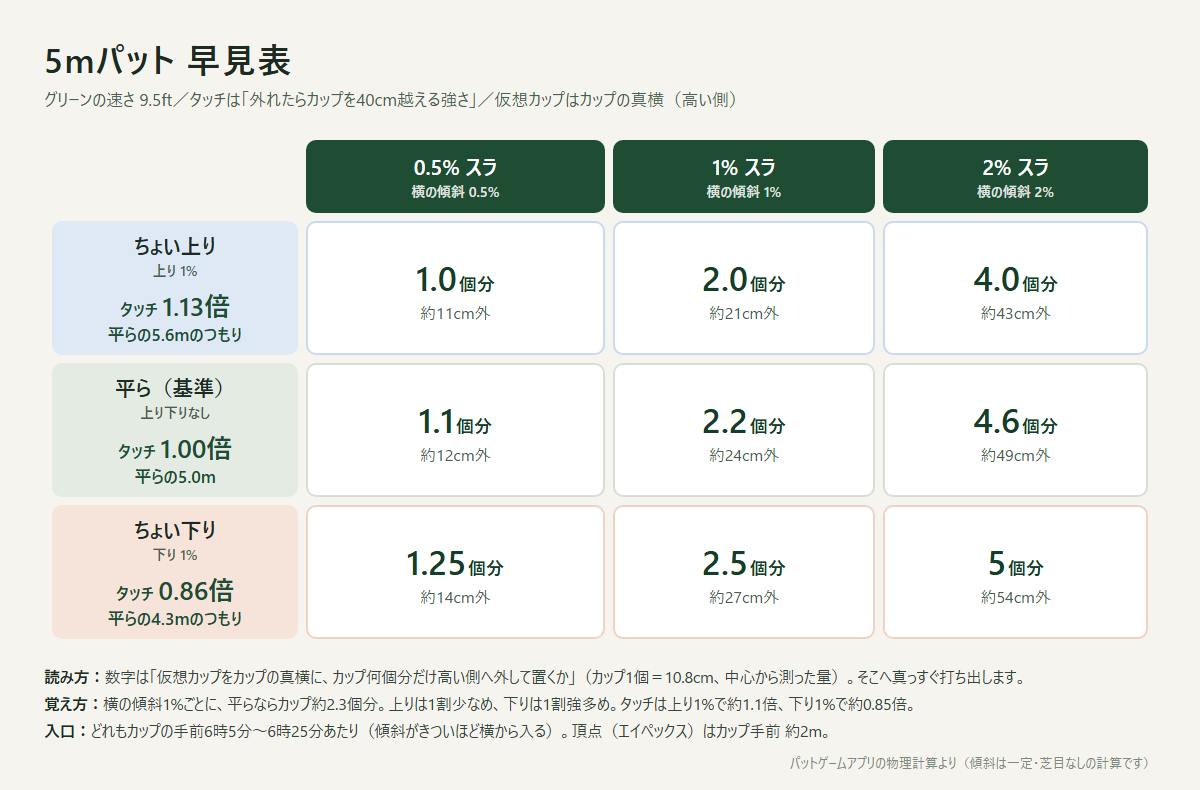
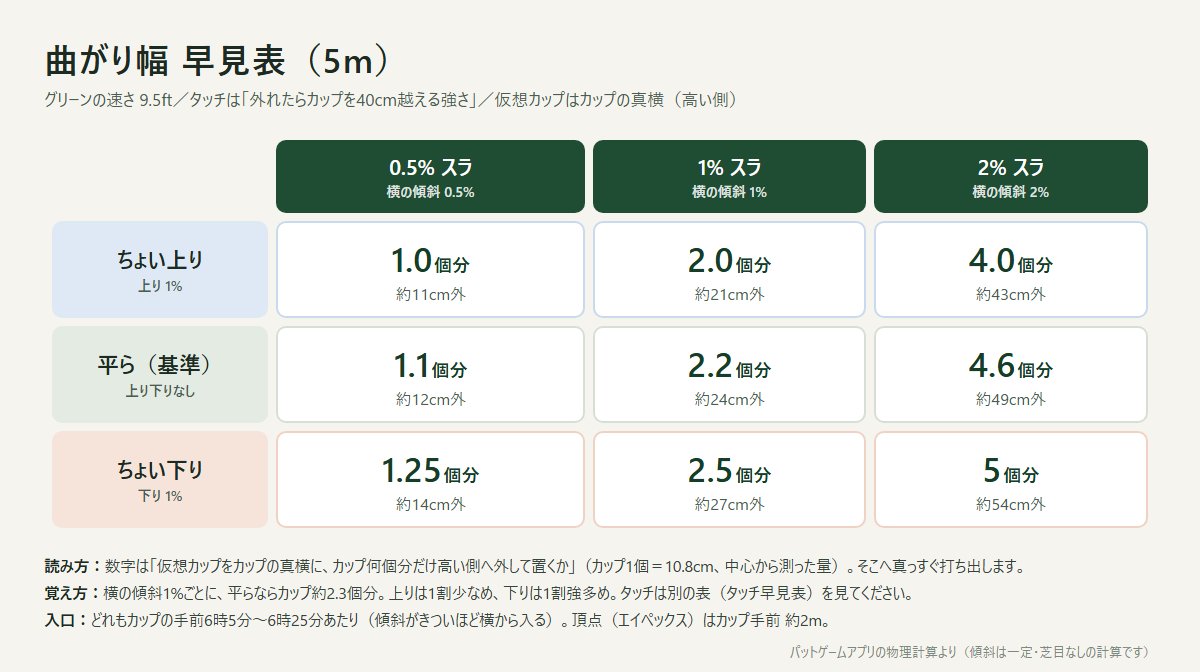
早見表を曲がり幅とタッチの2枚に分ける

Changed region(s): [[0.0308, 0.0625, 0.9558, 1.0], [0.1233, 0.2812, 0.185, 0.3438]]

diff --git a/README.md b/README.md
@@ -19,12 +19,20 @@
 - 左打ち・右打ちの切り替え、アドレス目線の視点、打ったボールを追うカメラ。
 - タッチは「平らなら何mのつもりで打つか」で合わせます。
 
-## 5mの早見表（9.5ft・外れたら40cm越えるタッチ）
+## 早見表（9.5ft・外れたら40cm越えるタッチ）
 
-![5mパット早見表](putt-matrix-5m.png)
+### 曲がり幅（5m）
+
+![曲がり幅 早見表](putt-matrix-5m.png)
 
 - 横の傾斜1%ごとに、平らならカップ約2.3個分。上りは1割少なめ、下りは1割強多め。
-- タッチは上り1%で約1.1倍、下り1%で約0.85倍。
+- 下りがきつくなるほど、曲がりは比例以上に大きくなります（5mの横2%：平ら4.6個分 → 下り3%で約7.5個分、下り4%で約9.6個分）。
+
+### タッチ（平らなら何mのつもりで打つか）
+
+![タッチ早見表](putt-touch.png)
+
+- 縦の傾斜1%ごとに、タッチは約13%変わる。上りは足す、下りは引く。距離が変わっても倍率はほぼ同じ。
 
 ## ホーム画面に追加して使う
 
